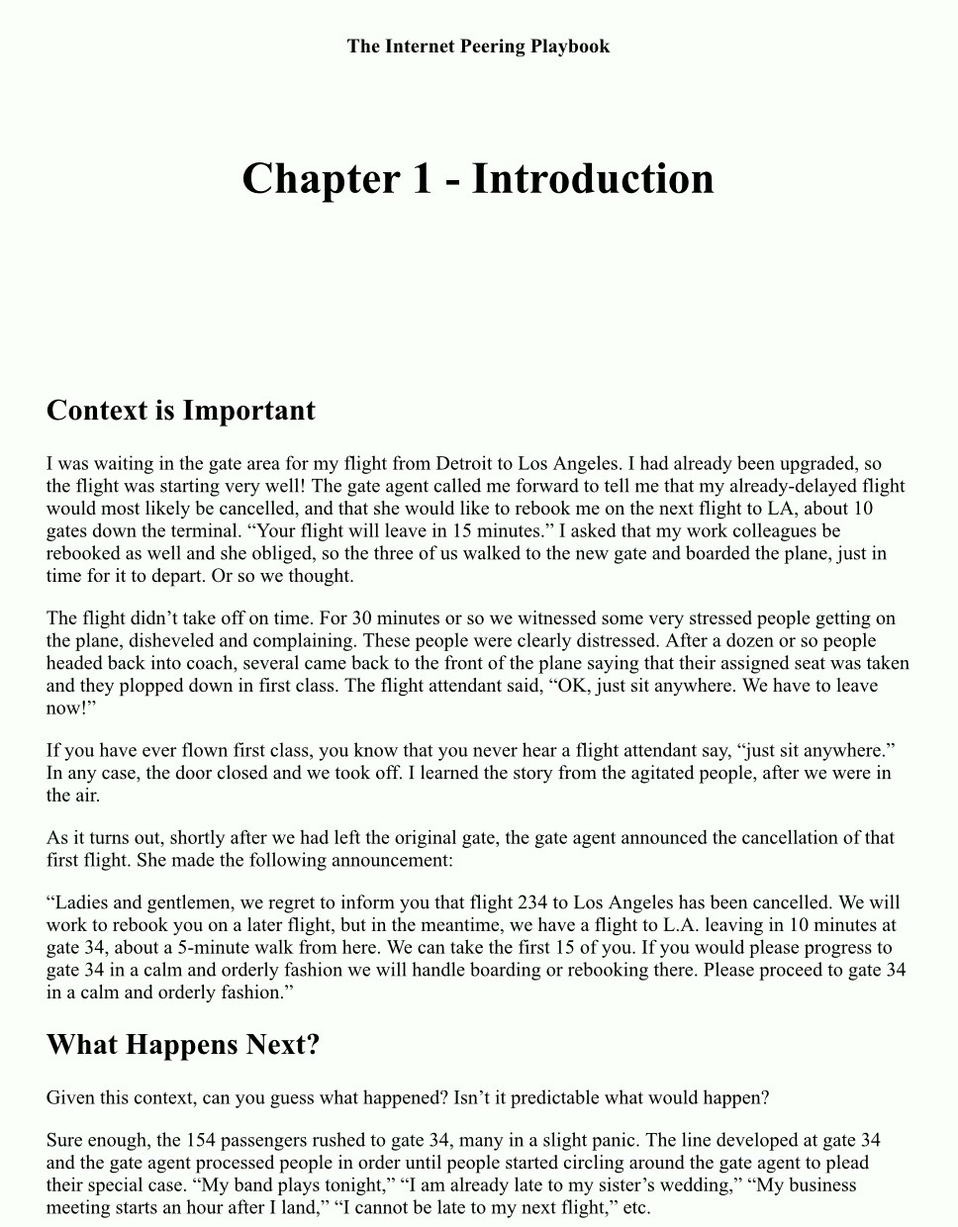
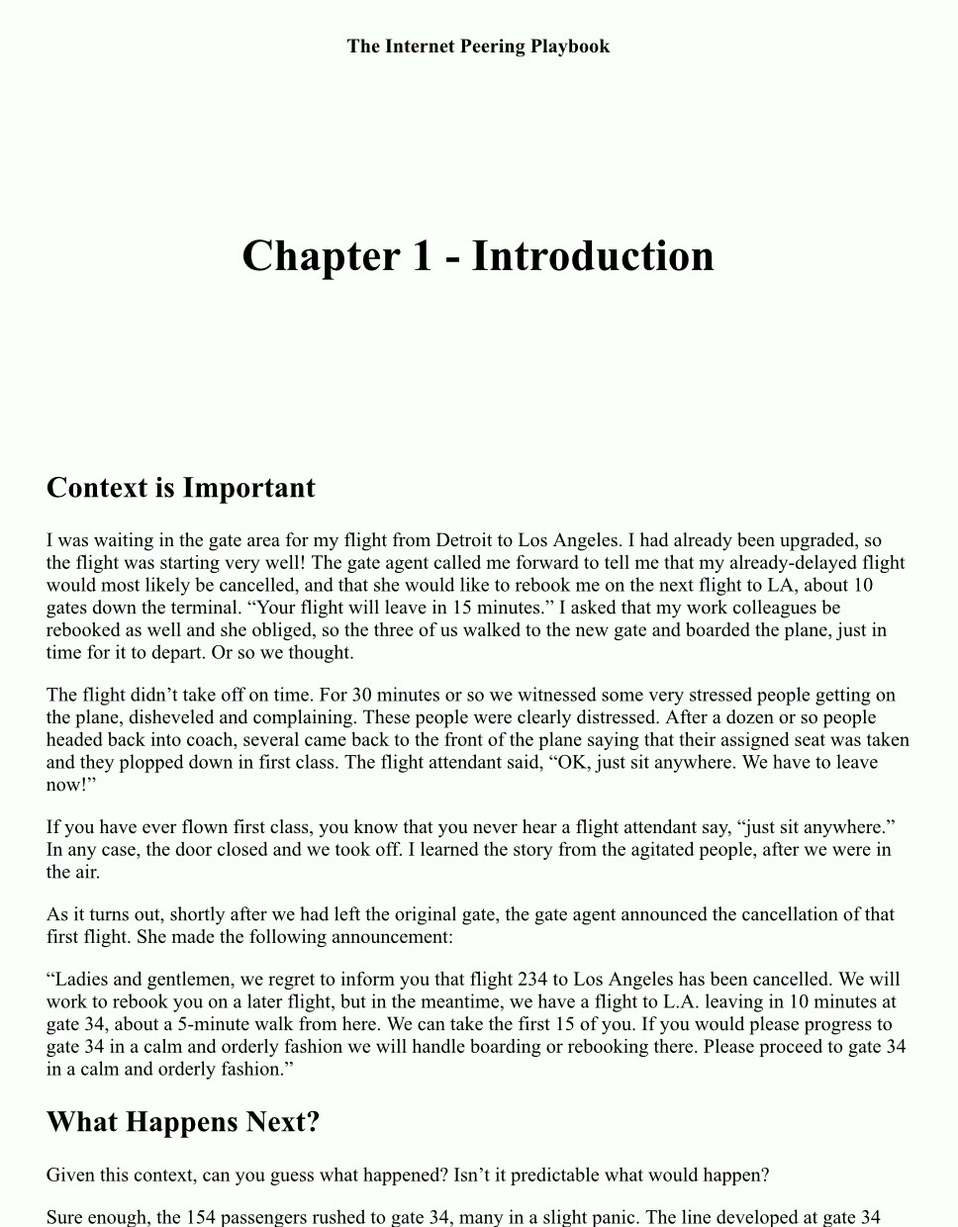
getting set up

diff --git a/Chapter-1-Introduction.hyperesources/chapter1introduction_hype_generated_script.js b/Chapter-1-Introduction.hyperesources/chapter1introduction_hype_generated_script.js
@@ -3,5 +3,5 @@
 (function(){(function k(){function l(a,b,d){var c=!1;null==window[a]&&(null==window[b]?(window[b]=[],window[b].push(k),a=document.getElementsByTagName("head")[0],b=document.createElement("script"),c=h,false==!0&&(c=""),b.type="text/javascript",b.src=c+"/"+d,a.appendChild(b)):window[b].push(k),c=!0);return c}var h="Chapter-1-Introduction.hyperesources",c="Chapter-1-Introduction",e="chapter1introduction_hype_container";if(false==!1)try{for(var f=document.getElementsByTagName("script"),
 a=0;a<f.length;a++){var b=f[a].src,d=null!=b?b.indexOf("/chapter1introduction_hype_generated_script.js"):-1;if(-1!=d){h=b.substr(0,d);break}}}catch(n){}if(false==!1&&(a=navigator.userAgent.match(/MSIE (\d+\.\d+)/),a=parseFloat(a&&a[1])||null,a=l("HYPE_596","HYPE_dtl_596",!0==(null!=a&&10>a||false==!0)?"HYPE-596.full.min.js":"HYPE-596.thin.min.js"),false==!0&&(a=a||l("HYPE_w_596","HYPE_wdtl_596","HYPE-596.waypoints.min.js")),a))return;f=window.HYPE.documents;
 if(null!=f[c]){b=1;a=c;do c=""+a+"-"+b++;while(null!=f[c]);d=document.getElementsByTagName("div");b=!1;for(a=0;a<d.length;a++)if(d[a].id==e&&null==d[a].getAttribute("HYP_dn")){var b=1,g=e;do e=""+g+"-"+b++;while(null!=document.getElementById(e));d[a].id=e;b=!0;break}if(!1==b)return}b=[];b=[];d={};g={};for(a=0;a<b.length;a++)try{g[b[a].identifier]=b[a].name,d[b[a].name]=eval("(function(){return "+b[a].source+"})();")}catch(m){window.console&&window.console.log(m),d[b[a].name]=
-function(){}}a=new HYPE_596(c,e,{"0":{n:"jquery-3.2.1.min.js"},"-1":{n:"PIE.htc"},"-2":{n:"blank.gif"}},h,[],d,[{n:"Chapter 1 - Introduction",o:"113",X:[0,1]}],[{o:"137",p:"600px",cA:false,a:100,Z:667,Y:375,c:"#F9FFFA",L:[],bY:1,d:320,U:{},T:{kTimelineDefaultIdentifier:{i:"kTimelineDefaultIdentifier",n:"Main Timeline",z:0,b:[],a:[],f:30}},bZ:180,G:{a:[{j:"http://drpeering.com",p:5,k:false}]},O:["154"],n:"iPhone","_":0,v:{"154":{G:"#000000",aU:8,c:331,bS:71,aV:8,d:651,r:"inline",s:"'Times New Roman',Times,Baskerville,Serif",t:16,Z:"break-word",w:"\n<h2 style=\"text-align: center;\"><span style=\"font-weight: bold;\"><font size=\"3\">The Internet Peering Playbook</font></span></h2><h2 style=\"text-align: center;\"><br></h2><h2 style=\"text-align: center;\"><span style=\"font-weight: bold;\">Chapter 1 - Introduction</span><br></h2><h2><br></h2><h2><br></h2><h2>Context is Important</h2>\n<p>I was waiting in the gate area for my flight from Detroit to Los Angeles. I had already been upgraded, so the flight was starting very well! The gate agent called me forward to tell me that my already-delayed flight would most likely be cancelled, and that she would like to rebook me on the next flight to LA, about 10 gates down the terminal. \u201cYour flight will leave in 15 minutes.\u201d I asked that my work colleagues be rebooked as well and she obliged, so the three of us walked to the new gate and boarded the plane, just in time for it to depart. Or so we thought.\n</p><p>\nThe flight didn\u2019t take off on time. For 30 minutes or so we witnessed some very stressed people getting on the plane, disheveled and complaining. These people were clearly distressed. After a dozen or so people headed back into coach, several came back to the front of the plane saying that their assigned seat was taken and they plopped down in first class. The flight attendant said, \u201cOK, just sit anywhere. We have to leave now!\u201d</p>\n<p>\nIf you have ever flown first class, you know that you never hear a flight attendant say, \u201cjust sit anywhere.\u201d In any case, the door closed and we took off. I learned the story from the agitated people, after we were in the air.\n</p><p>\nAs it turns out, shortly after we had left the original gate, the gate agent announced the cancellation of that first flight. She made the following announcement:\n</p><p>\n\u201cLadies and gentlemen, we regret to inform you that flight 234 to Los Angeles has been cancelled. We will work to rebook you on a later flight, but in the meantime, we have a flight to L.A. leaving in 10 minutes at gate 34, about a 5-minute walk from here. We can take the first 15 of you. If you would please progress to gate 34 in a calm and orderly fashion we will handle boarding or rebooking there. Please proceed to gate 34 in a calm and orderly fashion.\u201d\n</p>\n<h2>What Happens Next?</h2>\n<p>Given this context, can you guess what happened? Isn\u2019t it predictable what would happen?</p>\n<p>Sure enough, the 154 passengers rushed to gate 34, many in a slight panic. The line developed at gate 34 and the gate agent processed people in order until people started circling around the gate agent to plead their special case. \u201cMy band plays tonight,\u201d \u201cI am already late to my sister\u2019s wedding,\u201d \u201cMy business meeting starts an hour after I land,\u201d \u201cI cannot be late to my next flight,\u201d etc.</p>\n<p>The orderly line turned into a \u201cmake-your-case\u201d mob fest. Those who were the most convincing and/or aggressive were given a boarding pass, perhaps because the agent just wanted to get rid of them. Of course rewarding this behavior led to louder and more aggressive acts to get to the front of the line. Imagine the situation. The notion of fairness, engraved in our minds, kicked in and led to the airport police and the Detroit police being summoned to the gate to calm things down and restore order.\n</p><p>\nWho bears responsibility for this ugly scene? Before you state the obvious, that the airline bears the responsibility, do you place any blame on the passengers? Do they not have control of their actions? Or are we wound up like an involuntary muscle forced to act upon stimuli without applying higher-level thought?\n</p>\n<p>As the 1980s rock band Devo so eloquently put it,</p>\n<br>\n<p class=\"quote\">\u201cAre we not men?\u201d</p>\n<p>\nI would like to think that if I were placed in that situation, I would sit in line, legs crossed in yoga pose, breathing deep breaths while chanting the words \u201ccalm blue ocean.\u201d\n</p><p>\nIt was interesting to find that while many in my European audiences also believed the airline was 100% responsible, a large other percentage of them believed that the airline was maybe 60% to 90% responsible for the riot. Some said the Europeans are more inclined towards personal responsibility, while others said that they are just more accustomed to waiting in lines.\n</p><p>\nIn any case, everyone agreed that the outcome (the riot) was predominantly driven by the context (the way the airline had set up the situation).\n</p><p>\nJust as context is the most important part to this airplane story, the most important thing to understand about the Internet is its context.\n</p>\n<h2>The Internet Operations Context Is Important</h2>\n<p>In this book, I will share a generalized model for the \u201cGlobal Internet Peering Ecosystem.\u201d All species within an ecosystem react to their environment. We will learn how Internet Service Providers are driven by their position within their Internet Peering Ecosystem. Their positional power determines their motivations, which in turn drives their behavior. Much as the passenger behavior in the airplane story is predictable and driven by context, so too are the behaviors of the players in the Internet Peering Ecosystem. A decade of research has gone into documenting the Internet operations context described in this book.</p>\n<h2>The Lexicon Is Important</h2>\n<p>After leading hundreds of peering workshops and consulting engagements, I have learned that people don\u2019t truly understand terminology until they use it themselves in actual applications.\n</p><p>To this end, the first few chapters will get you comfortable with the interconnection lexicon. First I will introduce the Internet Transit model and terminology used when attaching at the edge of the Internet. Then we will explore the model with some problem sets and manipulations of the system in the \u201cTransit Playbook.\u201d The playbook uses these definitions to describe the manipulations.</p>\n<p>Then we introduce the local routing optimization called \u201cInternet Peering.\u201d We examine the terminology, the processes typically used in peering, and the business case for peering. The problem sets at the end of each chapter can help you determine if you absorbed the material.</p>\n<p>Everyone will misuse the terminology a few times before they understand it. During the workshops the \u201cah-ha\u201d moment generally occurs as we apply the terminology correctly.</p>\n<p></p><h2>The Playbooks Are Important</h2>\n<p>The first time you do anything, you make mistakes. The second time, perhaps you make different mistakes. After a few dozen more times, it is rare to make a mistake, and the process becomes systematic. With even more experience, you master a systematic process. In this book I will present three \u201cplaybooks\u201d that demonstrate some mastery in the peering domain.</p>\n\n<p>The tactics in the playbooks are not necessarily recommended tactics, or best practices. Rather, they are actual tactics (both good and bad, ethical and otherwise) that are in use in the real world. They are presented here to enable you to understand the interconnection paradigm by exploring the various manipulations of the system. Understanding the manipulations of the system helps us better understand the system.</p>\n",j:"absolute",x:"scroll",k:"div",y:"preserve",z:1,aS:8,aT:8,a:16,b:0}}},{o:"134",p:"600px",cA:false,a:100,Z:2500,Y:768,c:"#F9FFFA",L:[],bY:1,d:768,U:{},T:{kTimelineDefaultIdentifier:{i:"kTimelineDefaultIdentifier",n:"Main Timeline",z:0,b:[],a:[],f:30}},bZ:180,G:{a:[{j:"http://drpeering.com",p:5,k:false}]},O:["155"],n:"iPad Portrait","_":1,v:{"155":{G:"#000000",aU:8,c:693,bS:71,aV:8,d:2462,r:"inline",s:"'Times New Roman',Times,Baskerville,Serif",t:16,Z:"break-word",w:"\n<h2 style=\"text-align: center;\"><font size=\"3\">The Internet Peering Playbook</font></h2><div><font size=\"3\"><br></font></div><div><font size=\"3\"><br></font></div><h2 style=\"text-align: center;\"><span style=\"font-size: 36px;\"><br></span></h2><h2 style=\"text-align: center;\"><span style=\"font-size: 36px;\">Chapter 1 - Introduction</span></h2><h2><br></h2><div><br></div><h2><br></h2><h2>Context is Important</h2>\n<p>I was waiting in the gate area for my flight from Detroit to Los Angeles. I had already been upgraded, so the flight was starting very well! The gate agent called me forward to tell me that my already-delayed flight would most likely be cancelled, and that she would like to rebook me on the next flight to LA, about 10 gates down the terminal. \u201cYour flight will leave in 15 minutes.\u201d I asked that my work colleagues be rebooked as well and she obliged, so the three of us walked to the new gate and boarded the plane, just in time for it to depart. Or so we thought.\n</p><p>\nThe flight didn\u2019t take off on time. For 30 minutes or so we witnessed some very stressed people getting on the plane, disheveled and complaining. These people were clearly distressed. After a dozen or so people headed back into coach, several came back to the front of the plane saying that their assigned seat was taken and they plopped down in first class. The flight attendant said, \u201cOK, just sit anywhere. We have to leave now!\u201d</p>\n<p>\nIf you have ever flown first class, you know that you never hear a flight attendant say, \u201cjust sit anywhere.\u201d In any case, the door closed and we took off. I learned the story from the agitated people, after we were in the air.\n</p><p>\nAs it turns out, shortly after we had left the original gate, the gate agent announced the cancellation of that first flight. She made the following announcement:\n</p><p>\n\u201cLadies and gentlemen, we regret to inform you that flight 234 to Los Angeles has been cancelled. We will work to rebook you on a later flight, but in the meantime, we have a flight to L.A. leaving in 10 minutes at gate 34, about a 5-minute walk from here. We can take the first 15 of you. If you would please progress to gate 34 in a calm and orderly fashion we will handle boarding or rebooking there. Please proceed to gate 34 in a calm and orderly fashion.\u201d\n</p>\n<h2>What Happens Next?</h2>\n<p>Given this context, can you guess what happened? Isn\u2019t it predictable what would happen?</p>\n<p>Sure enough, the 154 passengers rushed to gate 34, many in a slight panic. The line developed at gate 34 and the gate agent processed people in order until people started circling around the gate agent to plead their special case. \u201cMy band plays tonight,\u201d \u201cI am already late to my sister\u2019s wedding,\u201d \u201cMy business meeting starts an hour after I land,\u201d \u201cI cannot be late to my next flight,\u201d etc.</p>\n<p>The orderly line turned into a \u201cmake-your-case\u201d mob fest. Those who were the most convincing and/or aggressive were given a boarding pass, perhaps because the agent just wanted to get rid of them. Of course rewarding this behavior led to louder and more aggressive acts to get to the front of the line. Imagine the situation. The notion of fairness, engraved in our minds, kicked in and led to the airport police and the Detroit police being summoned to the gate to calm things down and restore order.\n</p><p>\nWho bears responsibility for this ugly scene? Before you state the obvious, that the airline bears the responsibility, do you place any blame on the passengers? Do they not have control of their actions? Or are we wound up like an involuntary muscle forced to act upon stimuli without applying higher-level thought?\n</p>\n<p>As the 1980s rock band Devo so eloquently put it,</p>\n<br>\n<p class=\"quote\">\u201cAre we not men?\u201d</p>\n<p>\nI would like to think that if I were placed in that situation, I would sit in line, legs crossed in yoga pose, breathing deep breaths while chanting the words \u201ccalm blue ocean.\u201d\n</p><p>\nIt was interesting to find that while many in my European audiences also believed the airline was 100% responsible, a large other percentage of them believed that the airline was maybe 60% to 90% responsible for the riot. Some said the Europeans are more inclined towards personal responsibility, while others said that they are just more accustomed to waiting in lines.\n</p><p>\nIn any case, everyone agreed that the outcome (the riot) was predominantly driven by the context (the way the airline had set up the situation).\n</p><p>\nJust as context is the most important part to this airplane story, the most important thing to understand about the Internet is its context.\n</p>\n<h2>The Internet Operations Context Is Important</h2>\n<p>In this book, I will share a generalized model for the \u201cGlobal Internet Peering Ecosystem.\u201d All species within an ecosystem react to their environment. We will learn how Internet Service Providers are driven by their position within their Internet Peering Ecosystem. Their positional power determines their motivations, which in turn drives their behavior. Much as the passenger behavior in the airplane story is predictable and driven by context, so too are the behaviors of the players in the Internet Peering Ecosystem. A decade of research has gone into documenting the Internet operations context described in this book.</p>\n<h2>The Lexicon Is Important</h2>\n<p>After leading hundreds of peering workshops and consulting engagements, I have learned that people don\u2019t truly understand terminology until they use it themselves in actual applications.\n</p><p>To this end, the first few chapters will get you comfortable with the interconnection lexicon. First I will introduce the Internet Transit model and terminology used when attaching at the edge of the Internet. Then we will explore the model with some problem sets and manipulations of the system in the \u201cTransit Playbook.\u201d The playbook uses these definitions to describe the manipulations.</p>\n<p>Then we introduce the local routing optimization called \u201cInternet Peering.\u201d We examine the terminology, the processes typically used in peering, and the business case for peering. The problem sets at the end of each chapter can help you determine if you absorbed the material.</p>\n<p>Everyone will misuse the terminology a few times before they understand it. During the workshops the \u201cah-ha\u201d moment generally occurs as we apply the terminology correctly.</p>\n<p></p><h2>The Playbooks Are Important</h2>\n<p>The first time you do anything, you make mistakes. The second time, perhaps you make different mistakes. After a few dozen more times, it is rare to make a mistake, and the process becomes systematic. With even more experience, you master a systematic process. In this book I will present three \u201cplaybooks\u201d that demonstrate some mastery in the peering domain.</p>\n\n<p>The tactics in the playbooks are not necessarily recommended tactics, or best practices. Rather, they are actual tactics (both good and bad, ethical and otherwise) that are in use in the real world. They are presented here to enable you to understand the interconnection paradigm by exploring the various manipulations of the system. Understanding the manipulations of the system helps us better understand the system.</p>\n",j:"absolute",x:"scroll",k:"div",y:"preserve",z:1,aS:8,aT:8,a:29,b:0}}}],{},g,{},null,false,true,-1,true,true,true,true);f[c]=a.API;document.getElementById(e).setAttribute("HYP_dn",
+function(){}}a=new HYPE_596(c,e,{"0":{n:"jquery-3.2.1.min.js"},"-1":{n:"PIE.htc"},"-2":{n:"blank.gif"}},h,[],d,[{n:"Chapter 1 - Introduction",o:"113",X:[0,1]}],[{o:"137",p:"600px",cA:false,a:100,Z:667,Y:375,c:"#F9FFFA",L:[],bY:1,d:320,U:{},T:{kTimelineDefaultIdentifier:{i:"kTimelineDefaultIdentifier",n:"Main Timeline",z:0,b:[],a:[],f:30}},bZ:180,G:{a:[{j:"http://drpeering.com",p:5,k:false}]},O:["154"],n:"iPhone","_":0,v:{"154":{G:"#000000",aU:8,c:331,bS:71,aV:8,d:651,r:"inline",s:"'Times New Roman',Times,Baskerville,Serif",t:16,Z:"break-word",w:"\n<h2 style=\"text-align: center;\"><span style=\"font-weight: bold;\"><font size=\"3\">The Internet Peering Playbook</font></span></h2><h2 style=\"text-align: center;\"><br></h2><h2 style=\"text-align: center;\"><span style=\"font-weight: bold;\"><br></span></h2><h2 style=\"text-align: center;\"><span style=\"font-weight: bold;\">Chapter 1 - Introduction</span><br></h2><h2><br></h2><h2><br></h2><h2><br></h2><h2>Context is Important</h2>\n<p>I was waiting in the gate area for my flight from Detroit to Los Angeles. I had already been upgraded, so the flight was starting very well! The gate agent called me forward to tell me that my already-delayed flight would most likely be cancelled, and that she would like to rebook me on the next flight to LA, about 10 gates down the terminal. \u201cYour flight will leave in 15 minutes.\u201d I asked that my work colleagues be rebooked as well and she obliged, so the three of us walked to the new gate and boarded the plane, just in time for it to depart. Or so we thought.\n</p><p>\nThe flight didn\u2019t take off on time. For 30 minutes or so we witnessed some very stressed people getting on the plane, disheveled and complaining. These people were clearly distressed. After a dozen or so people headed back into coach, several came back to the front of the plane saying that their assigned seat was taken and they plopped down in first class. The flight attendant said, \u201cOK, just sit anywhere. We have to leave now!\u201d</p>\n<p>\nIf you have ever flown first class, you know that you never hear a flight attendant say, \u201cjust sit anywhere.\u201d In any case, the door closed and we took off. I learned the story from the agitated people, after we were in the air.\n</p><p>\nAs it turns out, shortly after we had left the original gate, the gate agent announced the cancellation of that first flight. She made the following announcement:\n</p><p>\n\u201cLadies and gentlemen, we regret to inform you that flight 234 to Los Angeles has been cancelled. We will work to rebook you on a later flight, but in the meantime, we have a flight to L.A. leaving in 10 minutes at gate 34, about a 5-minute walk from here. We can take the first 15 of you. If you would please progress to gate 34 in a calm and orderly fashion we will handle boarding or rebooking there. Please proceed to gate 34 in a calm and orderly fashion.\u201d\n</p>\n<h2>What Happens Next?</h2>\n<p>Given this context, can you guess what happened? Isn\u2019t it predictable what would happen?</p>\n<p>Sure enough, the 154 passengers rushed to gate 34, many in a slight panic. The line developed at gate 34 and the gate agent processed people in order until people started circling around the gate agent to plead their special case. \u201cMy band plays tonight,\u201d \u201cI am already late to my sister\u2019s wedding,\u201d \u201cMy business meeting starts an hour after I land,\u201d \u201cI cannot be late to my next flight,\u201d etc.</p>\n<p>The orderly line turned into a \u201cmake-your-case\u201d mob fest. Those who were the most convincing and/or aggressive were given a boarding pass, perhaps because the agent just wanted to get rid of them. Of course rewarding this behavior led to louder and more aggressive acts to get to the front of the line. Imagine the situation. The notion of fairness, engraved in our minds, kicked in and led to the airport police and the Detroit police being summoned to the gate to calm things down and restore order.\n</p><p>\nWho bears responsibility for this ugly scene? Before you state the obvious, that the airline bears the responsibility, do you place any blame on the passengers? Do they not have control of their actions? Or are we wound up like an involuntary muscle forced to act upon stimuli without applying higher-level thought?\n</p>\n<p>As the 1980s rock band Devo so eloquently put it,</p>\n<br>\n<p class=\"quote\">\u201cAre we not men?\u201d</p>\n<p>\nI would like to think that if I were placed in that situation, I would sit in line, legs crossed in yoga pose, breathing deep breaths while chanting the words \u201ccalm blue ocean.\u201d\n</p><p>\nIt was interesting to find that while many in my European audiences also believed the airline was 100% responsible, a large other percentage of them believed that the airline was maybe 60% to 90% responsible for the riot. Some said the Europeans are more inclined towards personal responsibility, while others said that they are just more accustomed to waiting in lines.\n</p><p>\nIn any case, everyone agreed that the outcome (the riot) was predominantly driven by the context (the way the airline had set up the situation).\n</p><p>\nJust as context is the most important part to this airplane story, the most important thing to understand about the Internet is its context.\n</p>\n<h2>The Internet Operations Context Is Important</h2>\n<p>In this book, I will share a generalized model for the \u201cGlobal Internet Peering Ecosystem.\u201d All species within an ecosystem react to their environment. We will learn how Internet Service Providers are driven by their position within their Internet Peering Ecosystem. Their positional power determines their motivations, which in turn drives their behavior. Much as the passenger behavior in the airplane story is predictable and driven by context, so too are the behaviors of the players in the Internet Peering Ecosystem. A decade of research has gone into documenting the Internet operations context described in this book.</p>\n<h2>The Lexicon Is Important</h2>\n<p>After leading hundreds of peering workshops and consulting engagements, I have learned that people don\u2019t truly understand terminology until they use it themselves in actual applications.\n</p><p>To this end, the first few chapters will get you comfortable with the interconnection lexicon. First I will introduce the Internet Transit model and terminology used when attaching at the edge of the Internet. Then we will explore the model with some problem sets and manipulations of the system in the \u201cTransit Playbook.\u201d The playbook uses these definitions to describe the manipulations.</p>\n<p>Then we introduce the local routing optimization called \u201cInternet Peering.\u201d We examine the terminology, the processes typically used in peering, and the business case for peering. The problem sets at the end of each chapter can help you determine if you absorbed the material.</p>\n<p>Everyone will misuse the terminology a few times before they understand it. During the workshops the \u201cah-ha\u201d moment generally occurs as we apply the terminology correctly.</p>\n<p></p><h2>The Playbooks Are Important</h2>\n<p>The first time you do anything, you make mistakes. The second time, perhaps you make different mistakes. After a few dozen more times, it is rare to make a mistake, and the process becomes systematic. With even more experience, you master a systematic process. In this book I will present three \u201cplaybooks\u201d that demonstrate some mastery in the peering domain.</p>\n\n<p>The tactics in the playbooks are not necessarily recommended tactics, or best practices. Rather, they are actual tactics (both good and bad, ethical and otherwise) that are in use in the real world. They are presented here to enable you to understand the interconnection paradigm by exploring the various manipulations of the system. Understanding the manipulations of the system helps us better understand the system.</p>\n",j:"absolute",x:"scroll",k:"div",y:"preserve",z:1,aS:8,aT:8,a:16,b:0}}},{o:"134",p:"600px",cA:false,a:100,Z:2500,Y:768,c:"#F9FFFA",L:[],bY:1,d:768,U:{},T:{kTimelineDefaultIdentifier:{i:"kTimelineDefaultIdentifier",n:"Main Timeline",z:0,b:[],a:[],f:30}},bZ:180,G:{a:[{j:"http://drpeering.com",p:5,k:false}]},O:["155"],n:"iPad Portrait","_":1,v:{"155":{G:"#000000",aU:8,c:693,bS:71,aV:8,d:2462,r:"inline",s:"'Times New Roman',Times,Baskerville,Serif",t:16,Z:"break-word",w:"\n<h2 style=\"text-align: center;\"><font size=\"3\">The Internet Peering Playbook</font></h2><div><font size=\"3\"><br></font></div><div><font size=\"3\"><br></font></div><h2 style=\"text-align: center;\"><span style=\"font-size: 36px;\"><br></span></h2><h2 style=\"text-align: center;\"><span style=\"font-size: 36px;\">Chapter 1 - Introduction</span></h2><h2><br></h2><div><br></div><h2><br></h2><h2>Context is Important</h2>\n<p>I was waiting in the gate area for my flight from Detroit to Los Angeles. I had already been upgraded, so the flight was starting very well! The gate agent called me forward to tell me that my already-delayed flight would most likely be cancelled, and that she would like to rebook me on the next flight to LA, about 10 gates down the terminal. \u201cYour flight will leave in 15 minutes.\u201d I asked that my work colleagues be rebooked as well and she obliged, so the three of us walked to the new gate and boarded the plane, just in time for it to depart. Or so we thought.\n</p><p>\nThe flight didn\u2019t take off on time. For 30 minutes or so we witnessed some very stressed people getting on the plane, disheveled and complaining. These people were clearly distressed. After a dozen or so people headed back into coach, several came back to the front of the plane saying that their assigned seat was taken and they plopped down in first class. The flight attendant said, \u201cOK, just sit anywhere. We have to leave now!\u201d</p>\n<p>\nIf you have ever flown first class, you know that you never hear a flight attendant say, \u201cjust sit anywhere.\u201d In any case, the door closed and we took off. I learned the story from the agitated people, after we were in the air.\n</p><p>\nAs it turns out, shortly after we had left the original gate, the gate agent announced the cancellation of that first flight. She made the following announcement:\n</p><p>\n\u201cLadies and gentlemen, we regret to inform you that flight 234 to Los Angeles has been cancelled. We will work to rebook you on a later flight, but in the meantime, we have a flight to L.A. leaving in 10 minutes at gate 34, about a 5-minute walk from here. We can take the first 15 of you. If you would please progress to gate 34 in a calm and orderly fashion we will handle boarding or rebooking there. Please proceed to gate 34 in a calm and orderly fashion.\u201d\n</p>\n<h2>What Happens Next?</h2>\n<p>Given this context, can you guess what happened? Isn\u2019t it predictable what would happen?</p>\n<p>Sure enough, the 154 passengers rushed to gate 34, many in a slight panic. The line developed at gate 34 and the gate agent processed people in order until people started circling around the gate agent to plead their special case. \u201cMy band plays tonight,\u201d \u201cI am already late to my sister\u2019s wedding,\u201d \u201cMy business meeting starts an hour after I land,\u201d \u201cI cannot be late to my next flight,\u201d etc.</p>\n<p>The orderly line turned into a \u201cmake-your-case\u201d mob fest. Those who were the most convincing and/or aggressive were given a boarding pass, perhaps because the agent just wanted to get rid of them. Of course rewarding this behavior led to louder and more aggressive acts to get to the front of the line. Imagine the situation. The notion of fairness, engraved in our minds, kicked in and led to the airport police and the Detroit police being summoned to the gate to calm things down and restore order.\n</p><p>\nWho bears responsibility for this ugly scene? Before you state the obvious, that the airline bears the responsibility, do you place any blame on the passengers? Do they not have control of their actions? Or are we wound up like an involuntary muscle forced to act upon stimuli without applying higher-level thought?\n</p>\n<p>As the 1980s rock band Devo so eloquently put it,</p>\n<br>\n<p class=\"quote\">\u201cAre we not men?\u201d</p>\n<p>\nI would like to think that if I were placed in that situation, I would sit in line, legs crossed in yoga pose, breathing deep breaths while chanting the words \u201ccalm blue ocean.\u201d\n</p><p>\nIt was interesting to find that while many in my European audiences also believed the airline was 100% responsible, a large other percentage of them believed that the airline was maybe 60% to 90% responsible for the riot. Some said the Europeans are more inclined towards personal responsibility, while others said that they are just more accustomed to waiting in lines.\n</p><p>\nIn any case, everyone agreed that the outcome (the riot) was predominantly driven by the context (the way the airline had set up the situation).\n</p><p>\nJust as context is the most important part to this airplane story, the most important thing to understand about the Internet is its context.\n</p>\n<h2>The Internet Operations Context Is Important</h2>\n<p>In this book, I will share a generalized model for the \u201cGlobal Internet Peering Ecosystem.\u201d All species within an ecosystem react to their environment. We will learn how Internet Service Providers are driven by their position within their Internet Peering Ecosystem. Their positional power determines their motivations, which in turn drives their behavior. Much as the passenger behavior in the airplane story is predictable and driven by context, so too are the behaviors of the players in the Internet Peering Ecosystem. A decade of research has gone into documenting the Internet operations context described in this book.</p>\n<h2>The Lexicon Is Important</h2>\n<p>After leading hundreds of peering workshops and consulting engagements, I have learned that people don\u2019t truly understand terminology until they use it themselves in actual applications.\n</p><p>To this end, the first few chapters will get you comfortable with the interconnection lexicon. First I will introduce the Internet Transit model and terminology used when attaching at the edge of the Internet. Then we will explore the model with some problem sets and manipulations of the system in the \u201cTransit Playbook.\u201d The playbook uses these definitions to describe the manipulations.</p>\n<p>Then we introduce the local routing optimization called \u201cInternet Peering.\u201d We examine the terminology, the processes typically used in peering, and the business case for peering. The problem sets at the end of each chapter can help you determine if you absorbed the material.</p>\n<p>Everyone will misuse the terminology a few times before they understand it. During the workshops the \u201cah-ha\u201d moment generally occurs as we apply the terminology correctly.</p>\n<p></p><h2>The Playbooks Are Important</h2>\n<p>The first time you do anything, you make mistakes. The second time, perhaps you make different mistakes. After a few dozen more times, it is rare to make a mistake, and the process becomes systematic. With even more experience, you master a systematic process. In this book I will present three \u201cplaybooks\u201d that demonstrate some mastery in the peering domain.</p>\n\n<p>The tactics in the playbooks are not necessarily recommended tactics, or best practices. Rather, they are actual tactics (both good and bad, ethical and otherwise) that are in use in the real world. They are presented here to enable you to understand the interconnection paradigm by exploring the various manipulations of the system. Understanding the manipulations of the system helps us better understand the system.</p>\n",j:"absolute",x:"scroll",k:"div",y:"preserve",z:1,aS:8,aT:8,a:29,b:0}}}],{},g,{},null,false,true,-1,true,true,true,true);f[c]=a.API;document.getElementById(e).setAttribute("HYP_dn",
 c);a.z_o(this.body)})();})();

diff --git a/Chapter-1-Introduction.html b/Chapter-1-Introduction.html
@@ -43,7 +43,7 @@ $(document).ready(function() {
 	<!-- copy these lines to your document: -->
 
 	<div id="chapter1introduction_hype_container" style="margin:auto;position:relative;width:100%;height:667px;overflow:hidden;">
-		<script type="text/javascript" charset="utf-8" src="Chapter-1-Introduction.hyperesources/chapter1introduction_hype_generated_script.js?59403"></script>
+		<script type="text/javascript" charset="utf-8" src="Chapter-1-Introduction.hyperesources/chapter1introduction_hype_generated_script.js?748"></script>
 	</div>
 
 	<!-- end copy -->
@@ -90,7 +90,9 @@ The first time you do anything, you make mistakes. The second time, perhaps you 
 The tactics in the playbooks are not necessarily recommended tactics, or best practices. Rather, they are actual tactics (both good and bad, ethical and otherwise) that are in use in the real world. They are presented here to enable you to understand the interconnection paradigm by exploring the various manipulations of the system. Understanding the manipulations of the system helps us better understand the system.
 </div>
 		<div>The Internet Peering Playbook
+
 Chapter 1 - Introduction
+
 
 
 Context is Important
